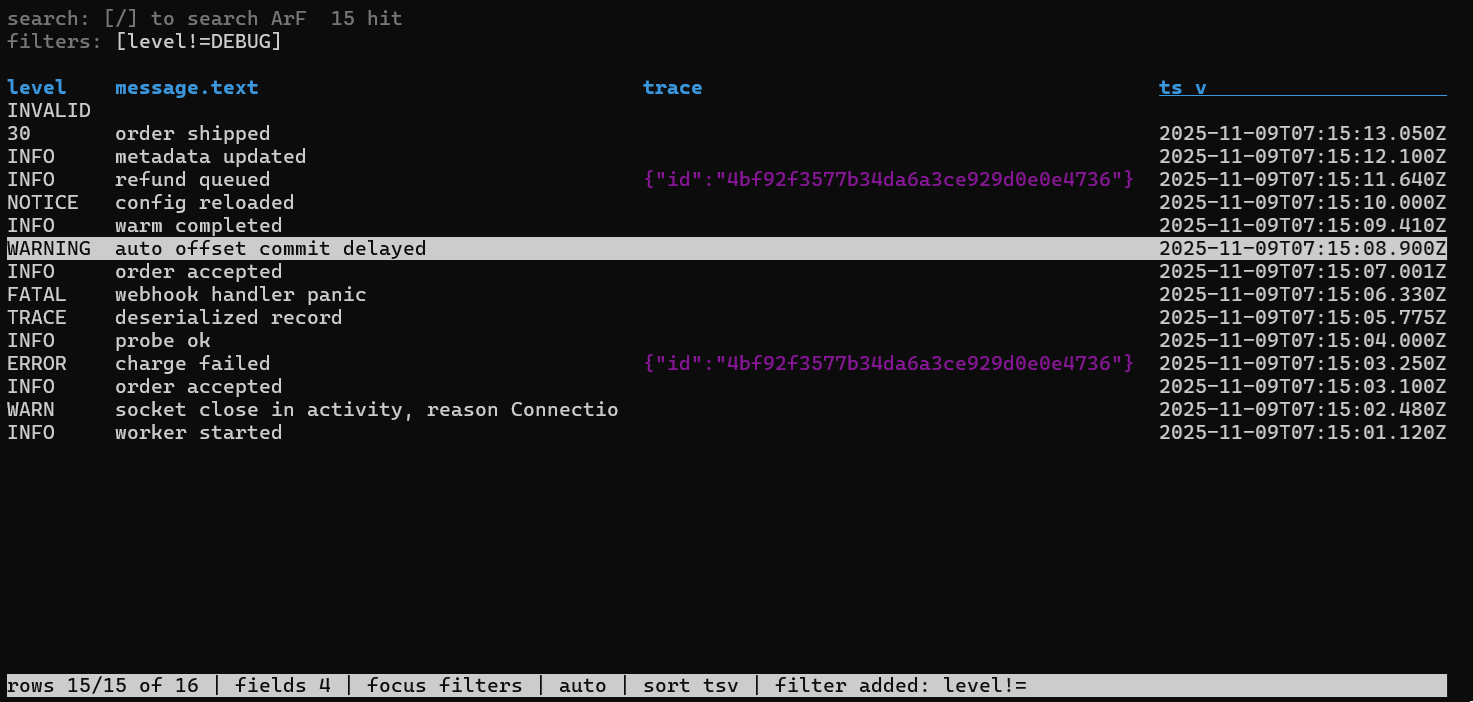
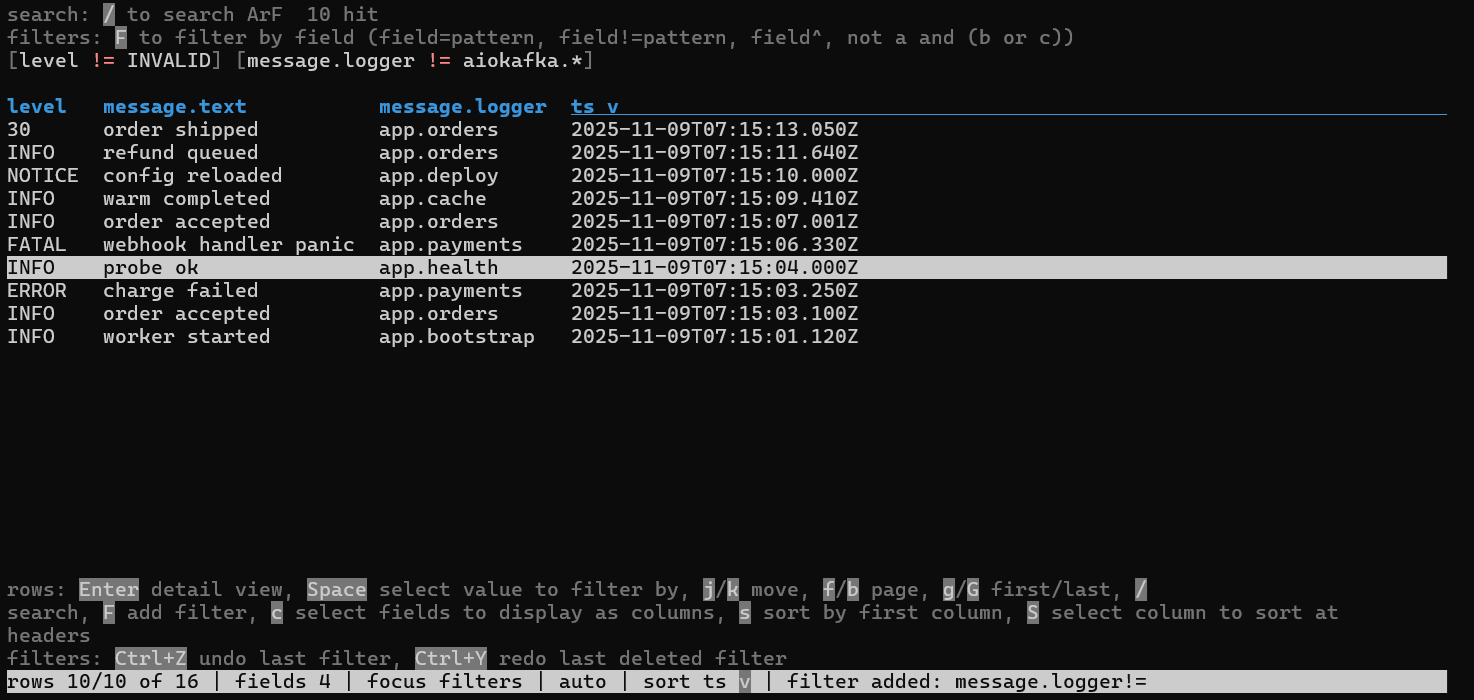
docs: update the interactive TUI screenshot

diff --git a/CHANGELOG.md b/CHANGELOG.md
@@ -26,6 +26,10 @@ and this project adheres to [Semantic Versioning](https://semver.org/spec/v2.0.0
 - *(cliff)* Keep squashed PR commits in the changelog
 - *(changelog)* Regenerated CHANGELOG.md ([#6](https://github.com/chamoretto/silv/issues/6))
 
+### Documentation
+
+- Update the interactive TUI screenshot
+
 ### Testing
 
 - *(tui)* Match the prompt line test to the reworded prompts
